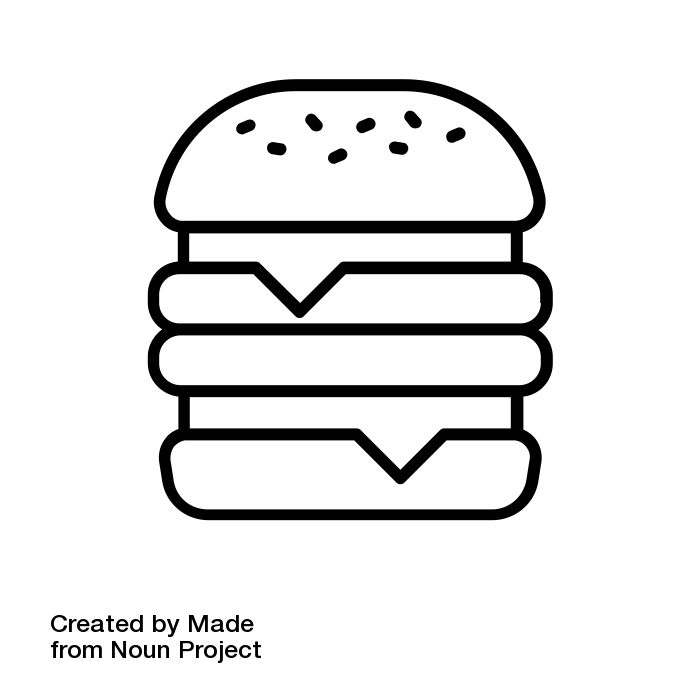
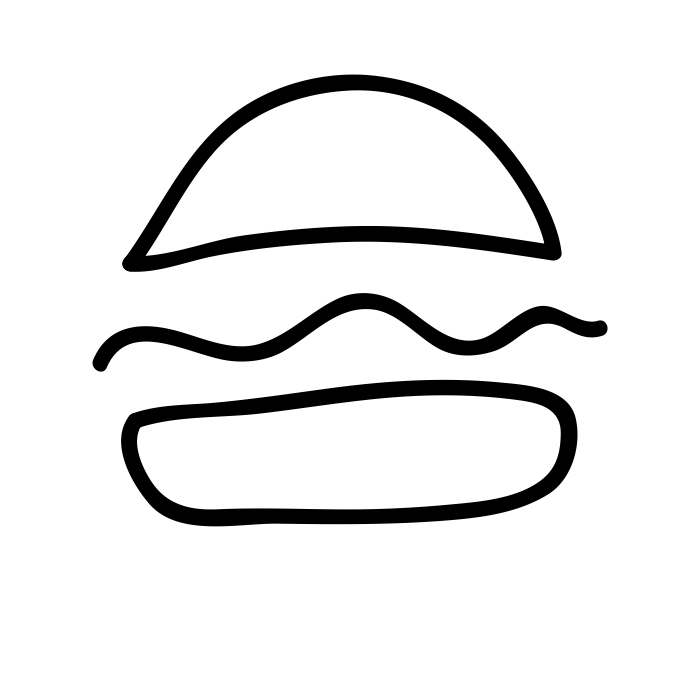
images et style

diff --git a/index.html b/index.html
@@ -5,7 +5,7 @@
   <link rel="stylesheet" href="https://maxcdn.bootstrapcdn.com/bootstrap/3.2.0/css/bootstrap.min.css">
   	<link href='style.css' rel="stylesheet">
     <meta charset="utf-8">
-    <title>My exploration guide.</title>
+    <title>My exploration guide</title>
     <link href="https://fonts.googleapis.com/css?family=Raleway" rel="stylesheet">
     <link rel="stylesheet" href="https://maxcdn.bootstrapcdn.com/font-awesome/4.4.0/css/font-awesome.min.css">
   </head>
@@ -22,7 +22,7 @@
   <div class="row">
     <div class="col-xs-12 col-sm-6 col-md-3">
       <DIV class="card">
-    <img src="images/ClubSandwich.JPG" alt="picture description">
+    <img src="images/burger.png" alt="picture description">
 
     <h2>Tasty</h2>
     <p>Worldwide <strong>Food</strong></p>
@@ -31,7 +31,7 @@
     </div>
     <div class="col-xs-12 col-sm-6 col-md-3">
       <DIV class="card">
-    <img src="images/SpiderHouse.JPG" alt="picture description">
+    <img src="images/plamier.png" alt="picture description">
     <h2>Different</h2>
     <p>Inspiring <strong>spots</strong></p>
 </DIV>
@@ -39,14 +39,14 @@
     </div>
     <div class="col-xs-12 col-sm-6 col-md-3">
       <DIV class="card">
-    <img src="images/BoaracayBeach.JPG" alt="picture description">
+    <img src="images/sunglass.png" alt="picture description">
     <h2>Unique</h2>
     <p>Amazing <strong>experiences</strong></p>
 </DIV>
     </div>
     <div class="col-xs-12 col-sm-6 col-md-3">
      <DIV class="card">
-    <img src="images/Musee.JPG" alt="picture description">
+    <img src="images/coeur.png" alt="picture description">
     <h2>Beautiful</h2>
     <p>Life <strong>moment</strong></p>
 </DIV>

diff --git a/style.css b/style.css
@@ -15,7 +15,7 @@ h1{
 }
 h2 {
   font-family: 'Roboto Condensed';
-  color: 816C61;
+  color: #912F40;
   font-weight: lighter;
   font-size: 35px;
 }
@@ -42,7 +42,7 @@ text-align: center;}
 }
 
 .card img {
-  width: 250px;
+  width: 200px;
 }
 
 #footer {
